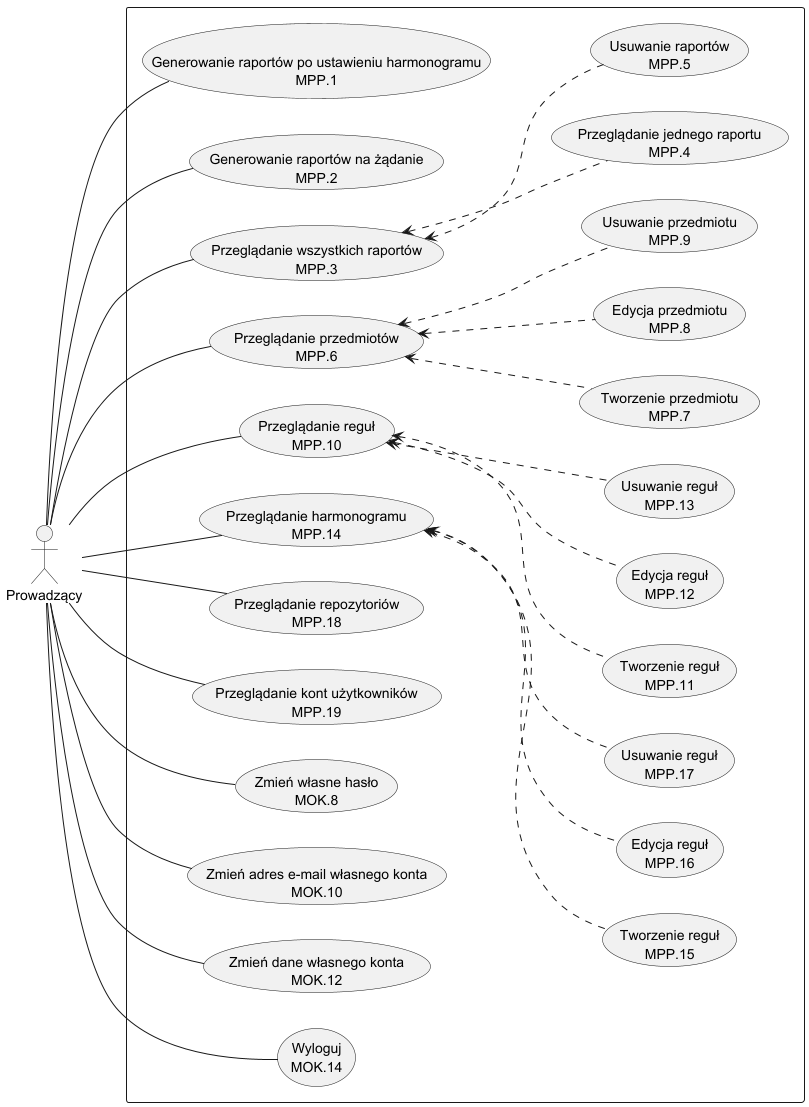
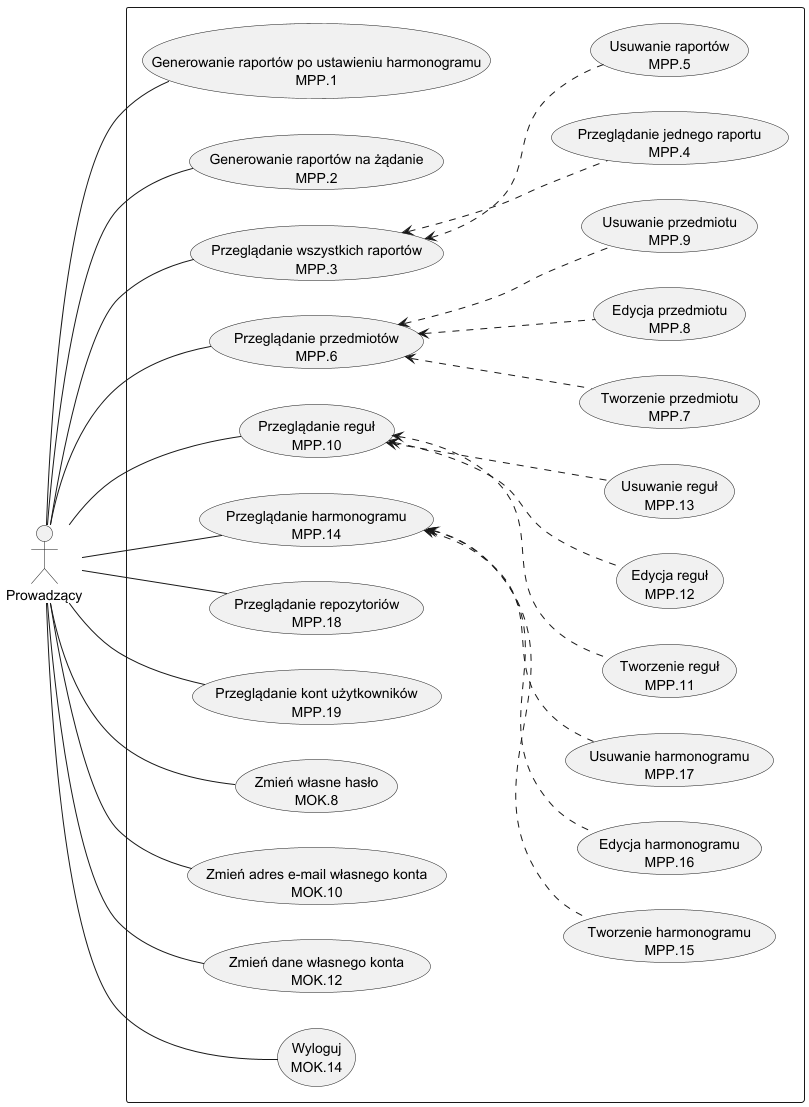
Sumatywny: Poprawa błędów po review (doc#16)

Changed region(s): [[0.7417, 0.7371, 0.9271, 0.7986], [0.7108, 0.8293, 0.9271, 0.8907], [0.7108, 0.6757, 0.9271, 0.7064]]

diff --git a/sumatywny/etap1/13przypadkiuzycia.md b/sumatywny/etap1/13przypadkiuzycia.md
@@ -8,7 +8,7 @@ Tabela 1.3.1 Słownik aktorów w systemie
 |Administrator|Administrator to jedyny aktor posiadający uprawnienia pozwalające na zarządzanie wszystkimi dostępnymi kontami w systemie.|MPP.24 - Zmiana kierownika przedmiotu|
 |Student|Student to uczeń, który realizuje dany przedmiot lub przedmioty na semestrze, gdzie jest zobligowany do zamieszczania kodu na repozytorium.|MPP.20 - Sprawdzenie swojego kodu<br />MPP.21 - Przeglądanie swoich raportów|
 |Prowadzący|Prowadzący to nauczyciel akademicki, który zarządza dostępnymi przedmiotami wraz z ich regułami oraz harmonogramami i monitoruje wyniki Studentów względem możliwego plagiatu.|MPP.1 - Generowanie raportu po ustawieniu harmonogramu<br />MPP.2 - Generowanie raportu na żądanie<br />MPP.3 - Przeglądanie wszystkich raportów<br />MPP.4 - Przeglądanie jednego raportu<br />MPP.5 - Usuwanie raportów<br />MPP.6 - Przeglądanie przedmiotów<br />MPP.7 - Tworzenie przedmiotu<br />MPP.8 - Edycja przedmiotu<br />MPP.9 - Usuwanie przedmiotu<br />MPP.10 - Przeglądanie reguł<br />MPP.11 - Tworzenie reguł<br />MPP.12 - Edycja reguł<br />MPP.13 - Usuwanie reguł<br />MPP.14 - Przeglądanie harmonogramu<br />MPP.15 - Tworzenie harmonogramu<br />MPP.16 - Edycja harmonogramu<br />MPP.17 - Usuwanie harmonogramu<br />MPP.18 - Przeglądanie repozytoriów<br />MPP.19 - Przeglądanie kont użytkowników|
-|Prowadzący dodatkowy|Prowadzący dodatkowy to nauczyciel akademicki posiadający jedynie prawo do odczytu w danym przedmiocie.|MPP.2 - Generowanie raportu na żądanie<br />MPP.3 - Przeglądanie wszystkich raportów<br />MPP.4 - Przeglądanie jednego raportu<br />MPP.6 - Przeglądanie przedmiotów<br />MPP.10 - Przeglądanie reguł<br />MPP.18 - Przeglądanie repozytoriów<br />MPP.19 - Przeglądanie kont użytkowników|
+|Prowadzący dodatkowy|Prowadzący dodatkowy to nauczyciel akademicki posiadający jedynie prawo do odczytu w danym przedmiocie.|MPP.2 - Generowanie raportu na żądanie<br />MPP.3 - Przeglądanie wszystkich raportów<br />MPP.4 - Przeglądanie jednego raportu<br />MPP.6 - Przeglądanie przedmiotów<br />MPP.10 - Przeglądanie reguł<br />MPP.14 - Przeglądanie harmonogramu<br />MPP.18 - Przeglądanie repozytoriów<br />MPP.19 - Przeglądanie kont użytkowników|
 |System|System to aktor w systemie odpowiadający za automatyczne wykonywanie zaplanowanych akcji bez dodatkowego działania Prowadzącego.|MPP.22 - Wygeneruj raport według harmonogramu<br />MPP.23 - Obliczenie zagregowanych wartości|
 
 <br>
